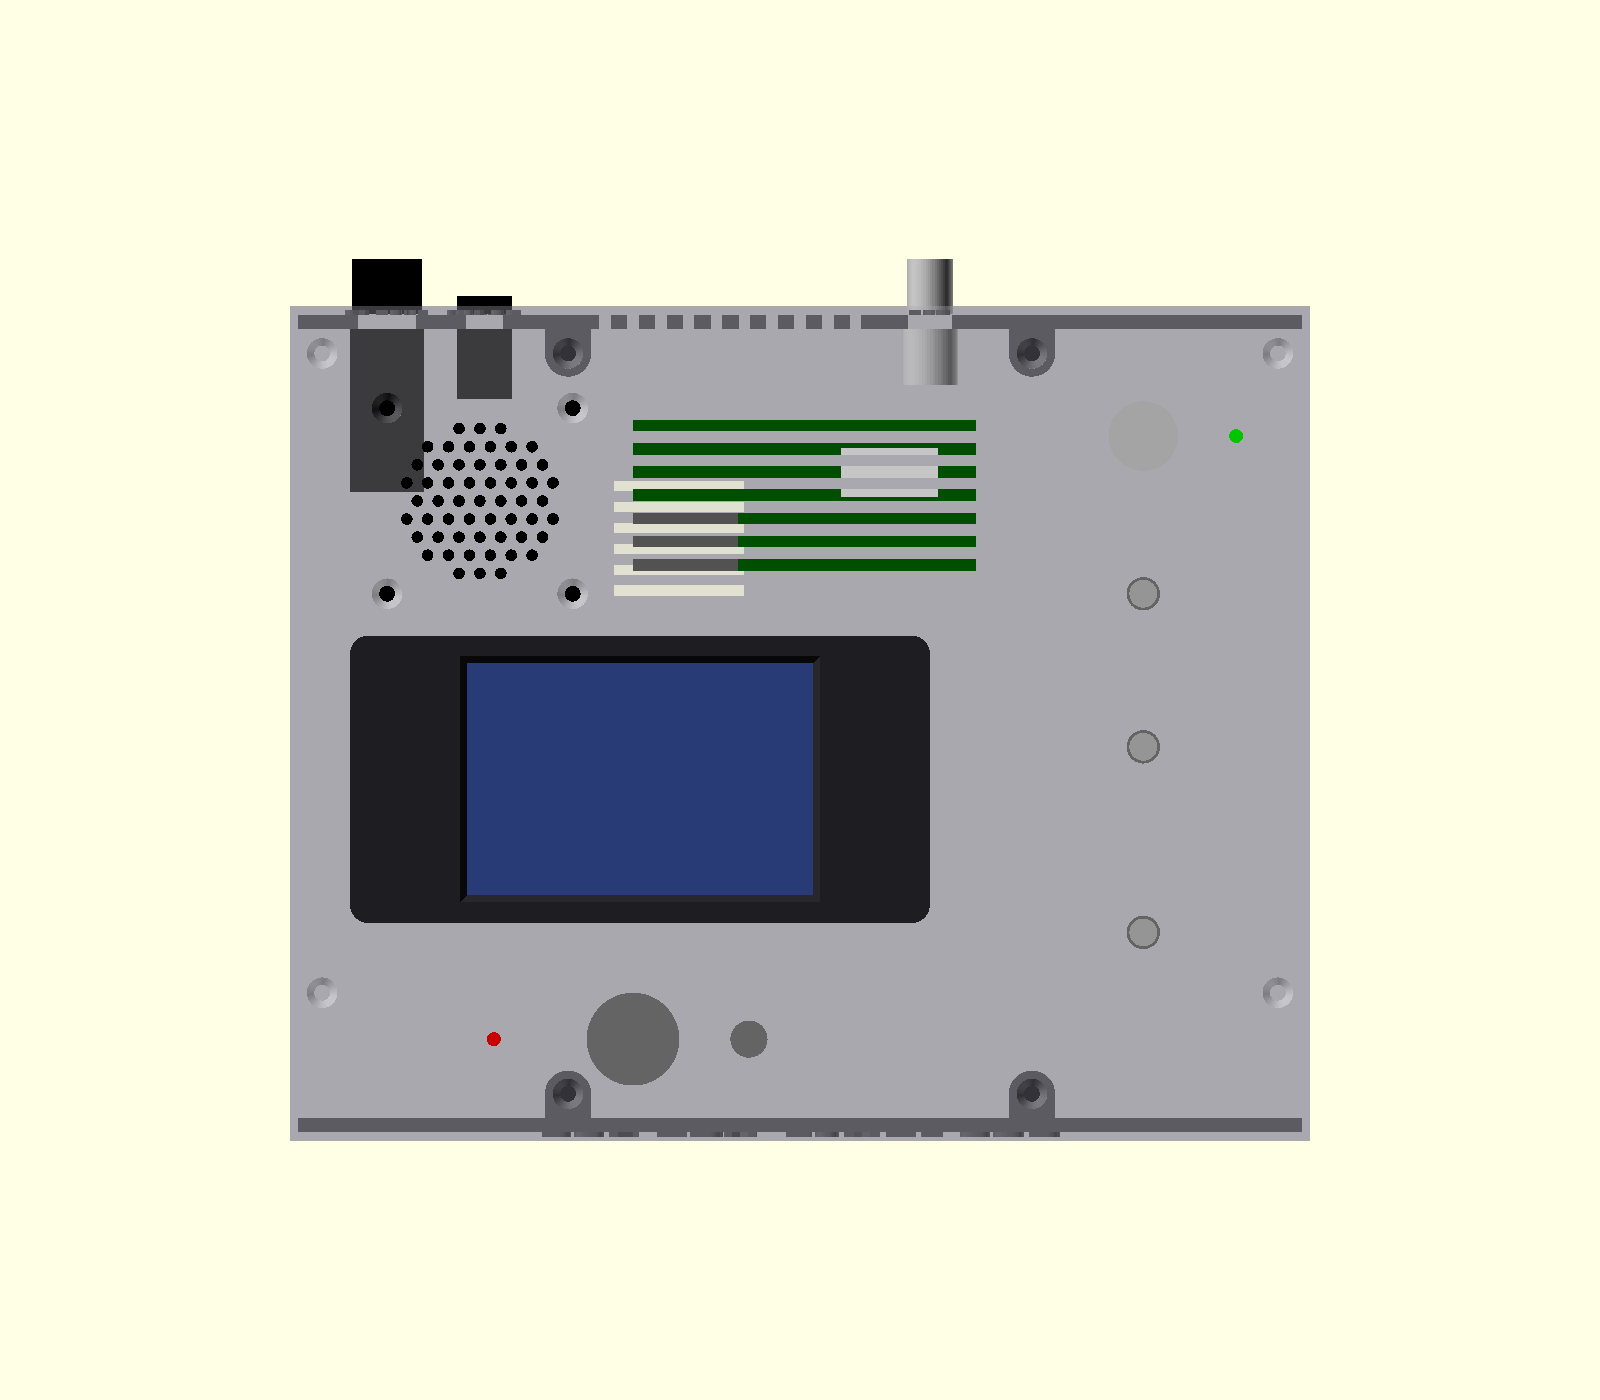
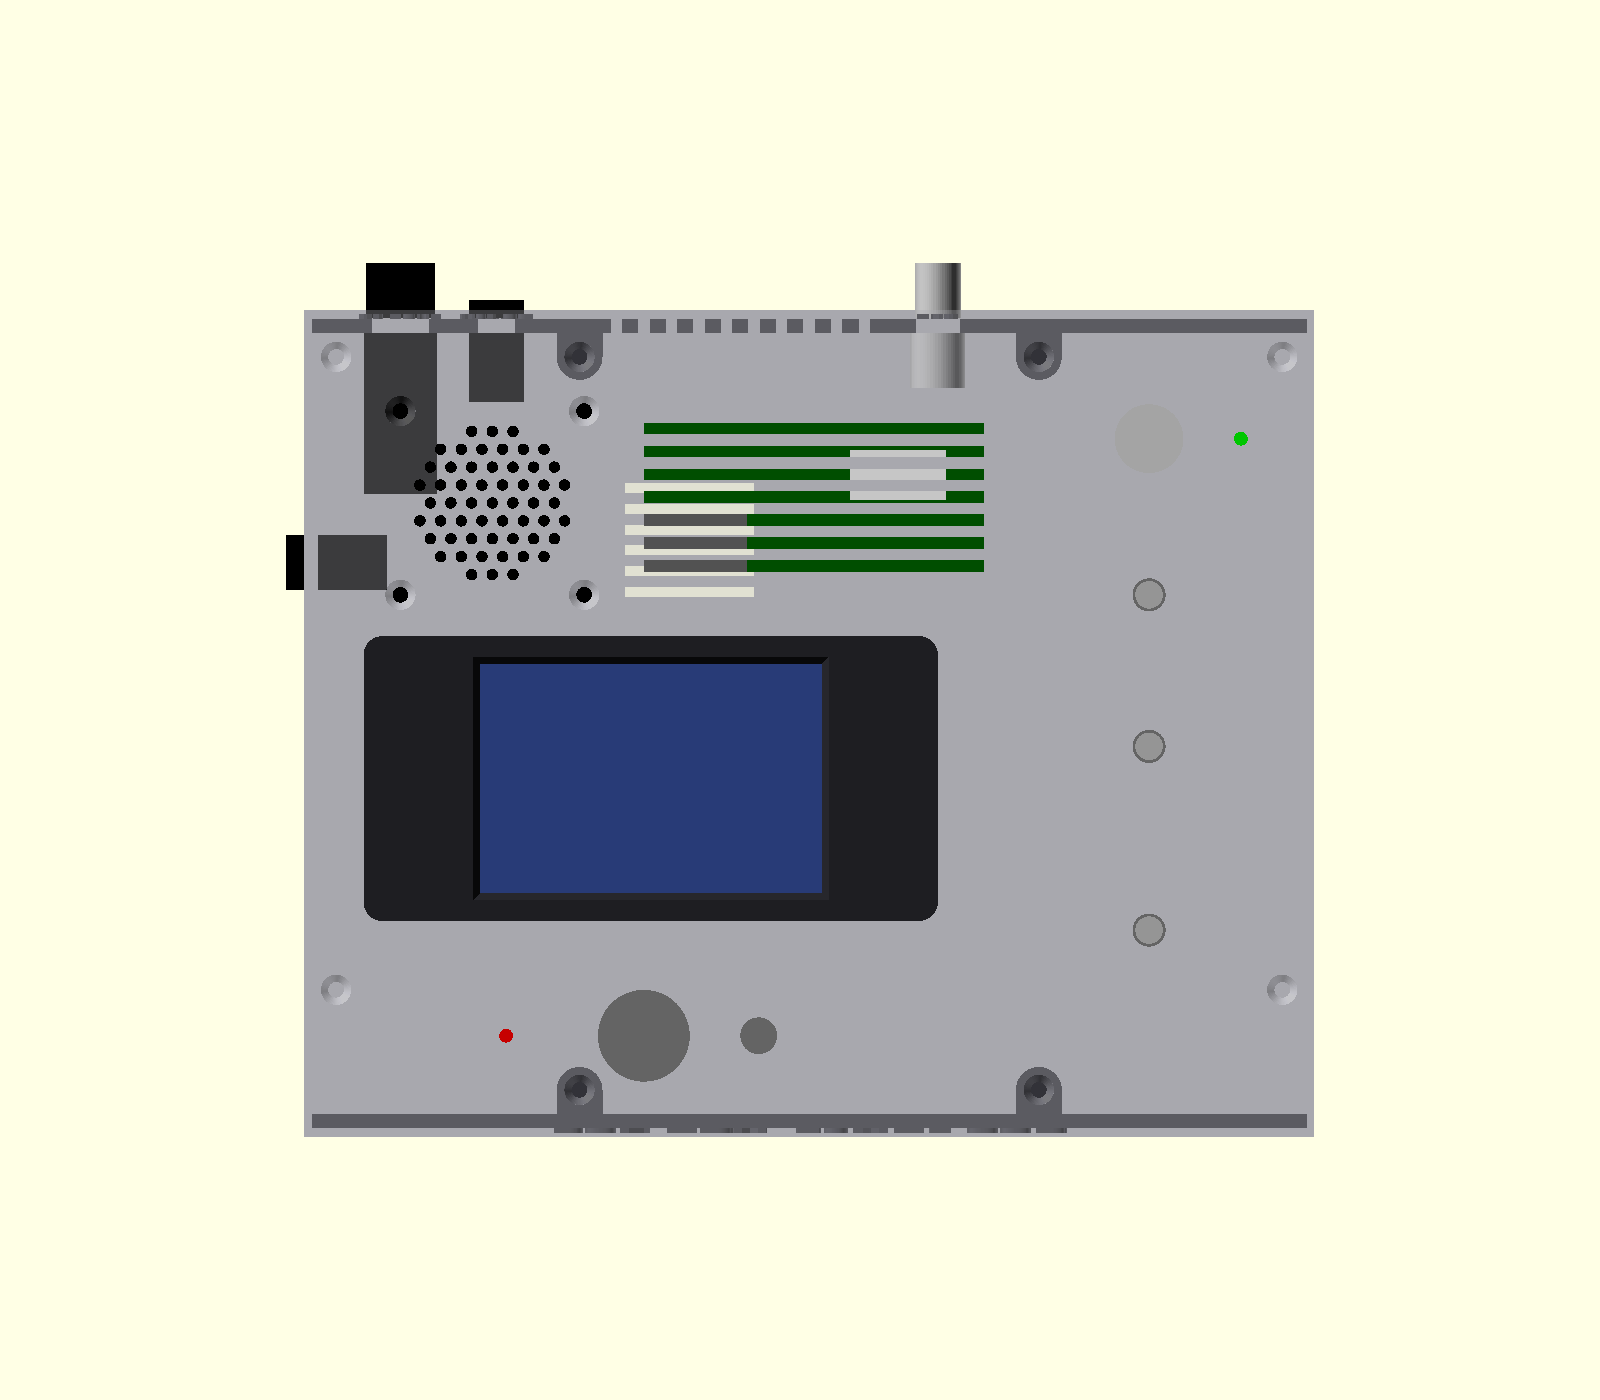
ケース: 左側面にも DC ジャック（後面と同じ品、並列）を追加
- ヒューズホルダ本体のすぐ前（Y 125mm、下から約 20mm）。内側から座ぐりして板厚 1.8mm
- 文字は彫り込み 0.6mm（エンボスだとベースの幅が 220mm を超える）
- ヒューズ・ふた固定ボス・基板・スピーカー・LCD との干渉チェックを追加
- 左側面のプレビュー画像、README・マニュアル（両方に同時に電源をつながない注意）、部品表の DC ジャックを 2 個に

diff --git a/kicad/make_bom_purchase.py b/kicad/make_bom_purchase.py
@@ -194,7 +194,7 @@ EXTRA = [
     ('イヤホンジャック', aki('MJ-352W-C', '117359', '1個', 175, 'M6 ナットでふたに固定。スイッチ付き')),
     ('電源スイッチ', other('要確認', 'φ13 穴に合うもの',
                       'LED は秋月 OSG5TA3Z74A（111635）、2.2kΩ は CF25J2K2B（125222）')),
-    ('DC ジャック', aki('MJ-14 ／ MF-524M ／ B-014IF', '106342 ／ 107079 ／ 100093', '各1個', '70／210／150',
+    ('DC ジャック', aki('MJ-14 ／ MF-524M ／ B-014IF', '106342 ／ 107079 ／ 100093', '2個／1個／1個', '70／210／150',
                      'DC ジャック／ヒューズホルダ／BNC。ヒューズは MF51NR 250V 1（107129、40 円）')),
     ('IC ソケット', aki('2227-08-03', '100017', '10個', 110)),
     ('スピーカー', aki('DXYD50N-22Z-8A-F', '116024', '1個', 250)),

diff --git a/enclosure/README.md b/enclosure/README.md
@@ -8,7 +8,7 @@
 
 | mode | 部品 | 出力ファイル（[出力方法](#出力方法mode-番号)で作る） | 印刷の向き・寸法 | 備考 |
 |---|---|---|---|---|
-| 1 | ベース（底板＋左右側板） | `stl/1_base.stl` | そのまま／220×180×37 mm | 基板スタンドオフ 5 mm（インサート下穴 φ5）、ふた固定ボス 4 本、パネル差し込み溝、パネル一体ボス用の皿穴 4 か所（底面）、底面通風、ゴム足座ぐり |
+| 1 | ベース（底板＋左右側板） | `stl/1_base.stl` | そのまま／220×180×37 mm | 基板スタンドオフ 5 mm（インサート下穴 φ5）、ふた固定ボス 4 本、パネル差し込み溝、パネル一体ボス用の皿穴 4 か所（底面）、底面通風、ゴム足座ぐり、左側面に DC ジャックの穴と彫り込み文字 |
 | 2 | ふた | `stl/2_lid.stl` | 外面を上／220×180×4.2 mm | 上面に LCD 切り欠き・TUNE・VOL・RF・POWER・電源 LED・TX LED・MIC・PHN、後ろ寄り（Y 123〜155.5 mm、X 74〜148 mm）に通風スロット 7 本、その左にスピーカーの放音穴（φ2.5、直径 35 mm の範囲に六角配置）と取付穴 4 か所（M3 皿もみ、40 mm 角）。裏面はリブなしの平板（PHN 穴の周り 15×15 mm だけ裏から深さ 1.2 mm 掘り、板厚 1.8 mm。ジャックのねじ長さ対策）。M3×10 × 8 本で固定（側板内側のボス 4 本と、前面・後面パネル一体のボス 4 本） |
 | 3 | 前面パネル | `stl/3_front_panel.stl` | 上端を下にして立てる／216.6×14.4×35.1 mm | 機種名のエンボス（1.2 mm）、内面にボス 2 本（左右の側面から 60 mm、上下にインサート）一体、サポート不要 |
 | 4 | 後面パネル | `stl/4_rear_panel.stl` | 上端を下にして立てる／216.6×14.4×35.1 mm | DC ジャック・BNC・ヒューズホルダと通風スロット、エンボス表示、内面にボス 2 本一体、サポート不要 |
@@ -22,6 +22,7 @@
   - 手前（LCD の手前の中央付近、ふた裏の本体は基板より前）: 左から **MIC・PHN**
   - 後面（後ろから見て左から）: **ANT（BNC）・DC 12V・FUSE**（高さは後面の見える範囲の中央、下から約 18 mm）。ANT は基板の J1（アンテナ）のすぐ後ろ、DC 12V は FUSE の隣（ジャックとヒューズの間の線を短くする）
   - 前面: 機種名のみ
+  - 左側面: **DC 12V**（後面の DC 12V と同じジャックを並列に。ヒューズホルダ本体のすぐ前、Y 125 mm）
 - 前後パネルは厚さ 3 mm。内面にボス 2 本（外径 10 mm、内面に密着）を一体で印刷し、ベース（底板・左右側板）の溝に上から差し込んで、ボスの上端をふたに、下端を底板にねじ止めします。アルミ板で作る場合は、ボスを別に用意してください。穴あけ図は `drawings/7_front_panel_2d.dxf/.svg`・`drawings/8_rear_panel_2d.dxf/.svg`（外から見た向き、原寸 mm）。
 - 文字はふた上面・前後パネルともエンボス（1.2 mm）です。ふたは外面を上にしてサポートなしで印刷できます（裏面の PHN 周りの座ぐりは 15 mm のブリッジになります）。
 - 基板は右辺（LCD・エンコーダ用ヘッダ J8/J7/J9）を前面に、左辺（J1 アンテナ・J2 電源）を後面に向けて置きます。基板の左端は X 43.3 mm（放熱器をなるべく右に寄せ、左にスピーカーを入れるため中央より右）。
@@ -72,6 +73,18 @@
 | ヒューズホルダ（5 × 20 mm、パネル取付） | φ12.5 | 速断 1 A 目安。パネル裏に約 35 mm 出る（基板の左外に入る） |
 
 エンボス表示: `DC 12V`、`+ CENTER`、`ANT`、`FUSE 1A`
+
+## 左側面
+
+![左側面](preview/left_side.png)
+
+| 部品 | 穴径 | 備考 |
+|---|---|---|
+| 12V DC ジャック（パネル取付、後面と同じ品） | φ8.0（内側から 15 × 15 mm を板厚 1.8 mm に座ぐり） | 中心 Y 125 mm、下から約 20 mm。本体（約 15 mm）はヒューズホルダ本体の前、基板の左外に入る |
+
+- 後面の DC ジャックと**並列**につなぎ、どちらもヒューズホルダへ配線します（ヒューズまで約 30 mm）。
+- 使っていない側のジャックの中心ピンにも 12 V が出ます（ピンはジャックの奥なので普通は問題ない）。**2 つのジャックに同時に電源をつながないでください。**
+- 文字（`DC 12V`、`+ CENTER`）は彫り込み 0.6 mm です。エンボスにするとベースの幅が 220 mm を超えてベッドに載らないためです。
 
 ## 注意（必ず実測してから出力）
 

diff --git a/kicad/BOM.md b/kicad/BOM.md
@@ -252,7 +252,7 @@
 | マイクコネクタ 4P | 1 | 千石電商／マルツ など（要確認） | 4P 丸型マイクコネクタ（メス、パネル取付 φ16） | J10、ケース上面 MIC（φ16.2） |
 | イヤホンジャック 3.5mm スイッチ付き（MJ-352W-C） | 1 | 秋月電子 | MJ-352W-C（117359） | J6、ケース上面 PHN。差し込み口の M6 ねじをふたの φ6.2 穴に通しナットで固定。プラグを挿すとブレーク接点が開くので、スピーカーをブレーク接点経由でつなぐとイヤホン使用時にスピーカーが切れる |
 | 電源スイッチ（φ13 穴）、3mm LED ＋ 2.2kΩ | 各 1 | 要確認 | φ13 穴に合うもの | ケース上面（電源ランプ） |
-| DC ジャック（センタープラス）、ヒューズホルダ 5×20 ＋ 1A 速断、BNC | 各 1 | 秋月電子 | MJ-14 ／ MF-524M ／ B-014IF（106342 ／ 107079 ／ 100093） | 後面パネル |
+| DC ジャック（センタープラス）、ヒューズホルダ 5×20 ＋ 1A 速断、BNC | 2 ／ 1 ／ 1 | 秋月電子 | MJ-14 ／ MF-524M ／ B-014IF（106342 ／ 107079 ／ 100093） | 後面パネル（DC ジャックは後面と左側面に 1 個ずつ、並列） |
 | IC ソケット DIP-8 | 2 | 秋月電子 | 2227-08-03（100017） | IC2・U1 用（推奨） |
 | M3 インサートナット | 24 | Amazon／モノタロウ |  | ケース（基板スタンドオフ 4、側板内側のふた固定ボス 4、前後パネル一体ボスの上端 4・下端 4）、ベゼル（LCD 用 4、ベゼル固定用 4） |
 | M3×8 ねじ | 4 | ホームセンター／モノタロウ |  | ベゼル→ふた（ふた裏から） |

diff --git a/kicad/部品個数まとめ.md b/kicad/部品個数まとめ.md
@@ -195,5 +195,5 @@
 | M3×6 ねじ |  | 8 |  | ホームセンター／モノタロウ |  |  |  |  |  |
 | スピーカー 5cm 8Ω 0.5W |  | 1 |  | 秋月電子 | DXYD50N-22Z-8A-F（116024） | 1個 | 1 | 250 |  |
 | 電源スイッチ（φ13 穴）、3mm LED ＋ 2.2kΩ |  | 各 1 |  | 要確認 | φ13 穴に合うもの |  |  |  | LED は秋月 OSG5TA3Z74A（111635）、2.2kΩ は CF25J2K2B（125222） |
-| DC ジャック（センタープラス）、ヒューズホルダ 5×20 ＋ 1A 速断、BNC |  | 各 1 |  | 秋月電子 | MJ-14 ／ MF-524M ／ B-014IF（106342 ／ 107079 ／ 100093） | 各1個 |  |  | DC ジャック／ヒューズホルダ／BNC。ヒューズは MF51NR 250V 1（107129、40 円） |
+| DC ジャック（センタープラス）、ヒューズホルダ 5×20 ＋ 1A 速断、BNC |  | 2 ／ 1 ／ 1 |  | 秋月電子 | MJ-14 ／ MF-524M ／ B-014IF（106342 ／ 107079 ／ 100093） | 2個／1個／1個 |  |  | DC ジャック／ヒューズホルダ／BNC。ヒューズは MF51NR 250V 1（107129、40 円） |
 | M3×8 皿ねじ・M3 ナット |  | 各 4 |  | ホームセンター／モノタロウ |  |  |  |  |  |

diff --git a/manual/README.md b/manual/README.md
@@ -57,6 +57,12 @@
 | DC 12V | 電源端子 | DC 12 V を接続（センタープラス） |
 | FUSE 1A | ヒューズホルダ | 5 × 20 mm、速断 1 A |
 
+### 2.2.1 左側面
+
+![左側面](../enclosure/preview/left_side.png)
+
+左側面にも後面と同じ電源端子（DC 12V、センタープラス）があります。中でつながっているので、使いやすいほうに電源をつないでください。**後面と左側面の両方に同時に電源をつながないでください。**
+
 ### 2.3 マイクコネクタのピン配置
 
 | ピン | 信号 | 説明 |
